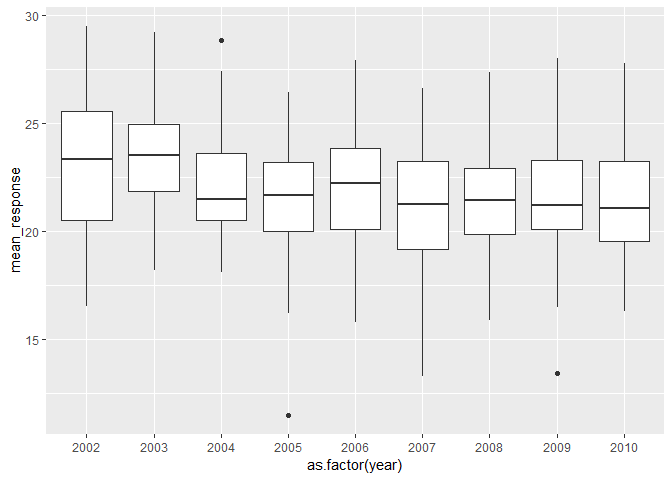
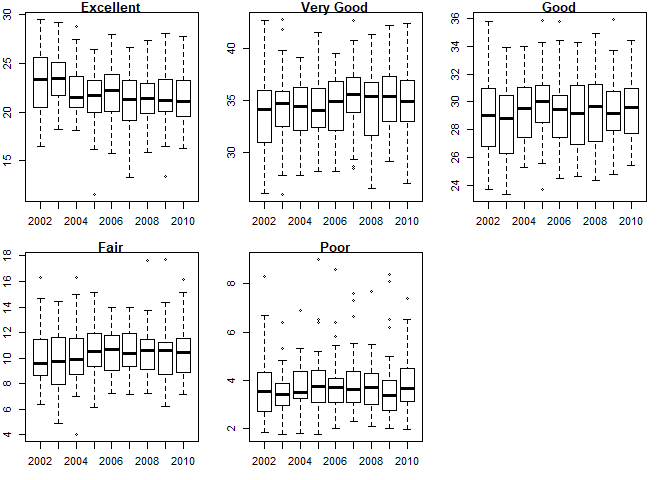
Progress on Problem 3 plots and solutions

diff --git a/HW3_Markdown.md b/HW3_Markdown.md
@@ -57,7 +57,9 @@ BRFSS_Spaghetti = BRFSS_Cleaned%>%
 ggplot(data = BRFSS_Spaghetti, aes(x=year, y=n, group=locationabbr, color = locationabbr)) + geom_line()
 ```
 
-![](HW3_Markdown_files/figure-markdown_github/spaghetti-1.png) This spaghetti plot tracks the number of observations by year and state.
+![](HW3_Markdown_files/figure-markdown_github/spaghetti-1.png)
+
+This spaghetti plot tracks the number of observations by year and state.
 
 ### Make a table showing, for the years 2002, 2006, and 2010, the mean and standard deviation of the proportion of “Excellent” responses across locations in NY State.
 
@@ -80,47 +82,23 @@ summarize(mean_excellent = mean(data_value), sd_excellent = sd(data_value))
 ### For each year and state, compute the average proportion in each response category (taking the average across locations in a state). Make a five-panel plot that shows, for each response category separately, the distribution of these state-level averages over time
 
 ``` r
+#Getting a data set with a proportion for each response level by state and year
 BRFSS_Five= BRFSS_Cleaned%>%
             group_by(year, locationabbr, response)%>%
-            summarize(mean_response = mean(data_value))
-ggplot(filter(BRFSS_Five, response == "Excellent"), aes(x = as.factor(year), y = mean_response)) + geom_boxplot()
+            summarize(mean_response = mean(data_value))%>%
+            group_by(year, response)
+#I am setting up a 5 plot panel
+par(mfrow=c(2,3))
+par(mar=c(3,2,1,2))
+#These boxplots graph each response level over time.
+boxplot(mean_response~year,filter(BRFSS_Five, response == "Excellent"), main = "Excellent")
+boxplot(mean_response~year,filter(BRFSS_Five, response == "Very good"), main = "Very Good")
+boxplot(mean_response~year,filter(BRFSS_Five, response == "Good"), main = "Good")
+boxplot(mean_response~year,filter(BRFSS_Five, response == "Fair"), main = "Fair")
+boxplot(mean_response~year,filter(BRFSS_Five, response == "Poor"), main = "Poor")
 ```
-
-    ## Warning: Removed 4 rows containing non-finite values (stat_boxplot).
 
 ![](HW3_Markdown_files/figure-markdown_github/Five%20Panel-1.png)
-
-``` r
-ggplot(filter(BRFSS_Five, response == "Very good"), aes(x = as.factor(year), y = mean_response)) + geom_boxplot()
-```
-
-    ## Warning: Removed 6 rows containing non-finite values (stat_boxplot).
-
-![](HW3_Markdown_files/figure-markdown_github/Five%20Panel-2.png)
-
-``` r
-ggplot(filter(BRFSS_Five, response == "Good"), aes(x = as.factor(year), y = mean_response)) + geom_boxplot()
-```
-
-    ## Warning: Removed 8 rows containing non-finite values (stat_boxplot).
-
-![](HW3_Markdown_files/figure-markdown_github/Five%20Panel-3.png)
-
-``` r
-ggplot(filter(BRFSS_Five, response == "Fair"), aes(x = as.factor(year), y = mean_response)) + geom_boxplot()
-```
-
-    ## Warning: Removed 2 rows containing non-finite values (stat_boxplot).
-
-![](HW3_Markdown_files/figure-markdown_github/Five%20Panel-4.png)
-
-``` r
-ggplot(filter(BRFSS_Five, response == "Poor"), aes(x = as.factor(year), y = mean_response)) + geom_boxplot()
-```
-
-    ## Warning: Removed 1 rows containing non-finite values (stat_boxplot).
-
-![](HW3_Markdown_files/figure-markdown_github/Five%20Panel-5.png)
 
 Problem Two
 ===========
